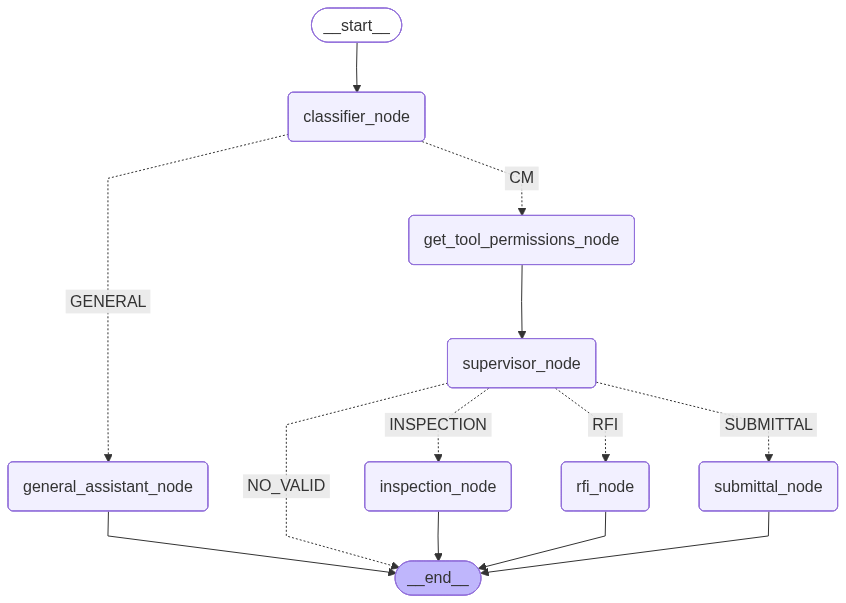
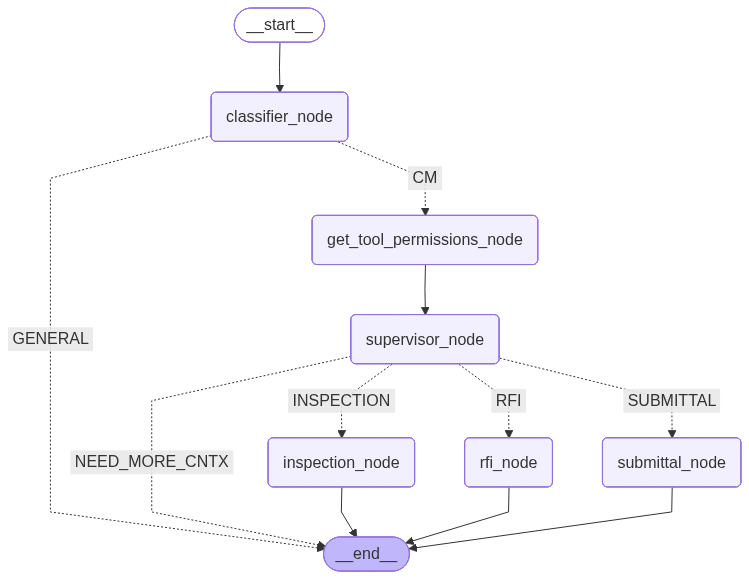
Update environment variables in .env.example; enhance README.md with detailed architecture and flow; refactor main.py to use chatcm_agent instead of ChatCM.

diff --git a/app/main.py b/app/main.py
@@ -16,7 +16,7 @@ from langchain_core.messages import HumanMessage
 
 from agents import *
 from model.user import UserContext
-from workflows.chat_cm import ChatCM
+from workflows.chat_cm import chatcm_agent
 
 POSTGRES_URI = os.getenv("POSTGRES_URI")
 QDRANT_URL = os.getenv("QDRANT_URL")
@@ -45,35 +45,11 @@ app.add_middleware(
     allow_headers=["*"],
 )
 
-def init_agent():
-    graph = ChatCM()
-    graph.question_classifier = QuestionClassifier(
-        # model= ChatOllama(model="qwen3:0.6b", temperature=0.1),
-        model=ChatNVIDIA(model="qwen/qwen2.5-7b-instruct", temperature=0, api_key=NVIDIA_LLM_API_KEY),
-       )
-    graph.general_assistant_team = GeneralAssistant(
-    #    model= ChatOllama(model="qwen3:0.6b", temperature=0.1),
-       model=ChatNVIDIA(model="qwen/qwen2.5-7b-instruct", temperature=0.2, api_key=NVIDIA_LLM_API_KEY),
-       )
-    graph.supervisor_team = CMSupervisor(
-        # model= ChatOllama(model="qwen3:0.6b", temperature=0.1),
-        model=ChatNVIDIA(model="qwen/qwen2.5-7b-instruct", temperature=0, api_key=NVIDIA_LLM_API_KEY),
-    )
-    graph.rfi_team = RFIAgent(
-        # model= ChatOllama(model="qwen3:0.6b", temperature=0.1),
-        model=ChatNVIDIA(model="qwen/qwen2.5-7b-instruct", temperature=0, api_key=NVIDIA_LLM_API_KEY),
-        yaml_path="docs/cm_db_knowledge.yaml",
-        db_uri=POSTGRES_URI
-    )
-    # Building the agent
-    memory = MemorySaver()
-    return graph.build(checkpointer=memory)
-
 def make_thread_id(s: ChatSession) -> str:
     # Deterministic per user/company/project unless overridden
     return s.thread_id if s.thread_id else str(uuid.uuid4())
 
-agent = init_agent()
+agent = chatcm_agent()
 
 @app.get("/healthz")
 def healthz():

diff --git a/README.md b/README.md
@@ -1,9 +1,49 @@
-# retriever-agent
+# ChatCM (Agentic Construction Management Assistant)
 
-- ต้องทำอะไรสักอย่างที่ เพื่อ context ตอน retrieval docs
-- research เกี่ยวกับวิธีลดหลอน
+ChatCM is an agentic workflow that classifies user queries, checks tool permissions, retrieves structured schema knowledge, generates safe read‑only SQL, executes it, and returns concise, user‑friendly answers for Construction Management (CM) features (RFI, Submittal, Inspection).
 
+## Architecture
 
-Supervisor -> 
-Analysze Question (greeting? or needed tools (e.g., search external, plot graph calculation, ))->
-routor -> 
+High‑level LangGraph workflow (auto‑generated):
+
+![ChatCM Agent Graph](assets/chatcm_agentic_graph.png)
+
+Flow:
+1. `classifier_node` → Classify query as CM / GENERAL / NEED_MORE_CNTX via [`QuestionClassifier`](agents/question_classifier.py).
+2. If CM → `get_tool_permissions_node` loads user tool permissions.
+3. `supervisor_node` ([`CMSupervisor`](agents/cm_supervisor.py)) routes to RFI / SUBMITTAL / INSPECTION or returns fallback (NON_CM_TOOL / NEED_MORE_CNTX / NO_VALID).
+4. Tool node (`rfi_node`, `submittal_node`, `inspection_node`) runs a 3‑step internal SQL subgraph (generate SQL → execute → answer) implemented in [`BaseToolAgent`](agents/cm_tool_agent.py) / specialized agents (`RFIAgent`, `SubmittalAgent`, `InspectionAgent`).
+5. Answer returned; GENERAL or ambiguous queries end early.
+
+## Core Components
+
+| Responsibility | Implementation |
+| -------------- | -------------- |
+| Orchestration graph | [`ChatCM`](workflows/chat_cm.py) + [`chatcm_agent`](workflows/chat_cm.py) |
+| Query type classification | [`QuestionClassifier`](agents/question_classifier.py) |
+| CM tool routing & permission gate | [`CMSupervisor`](agents/cm_supervisor.py) |
+| SQL generation + execution + NL answer | [`BaseToolAgent`](agents/cm_tool_agent.py) & registered agents (`RFIAgent`, `SubmittalAgent`, `InspectionAgent`) |
+| Vector retrieval (schema / docs) | [`QdrantVector`](utils/qdrant_helper.py) |
+| Prompts (SQL templates) | [`prompts.py`](prompt_templates/prompts.py) |
+| HTTP API | [`app/main.py`](app/main.py) |
+| Streamlit demo UI | [`streamlit_app.py`](streamlit_app.py) |
+| Constants / env | [`constants.py`](constants/constants.py) |
+
+## Safety & Guardrails
+
+- Only single read‑only `SELECT` statements accepted (validated in [`execute_query`](agents/cm_tool_agent.py)).
+- LIMIT auto‑inserted / adjusted (`_check_limit`).
+- Non‑SELECT or unsafe SQL rejected early.
+- Answer prompt forbids leaking raw SQL, enforces factual grounding in result set.
+
+## Vector Store (Schema Awareness)
+
+Schema / table descriptions are embedded and stored in Qdrant (see [`QdrantVector`](utils/qdrant_helper.py)). Agents can extend retrieval to refine `table_info` beyond default tables.
+
+## Environment
+
+Copy sample:
+```sh
+cp .env.example .env
+```
+Key variables (see [.env.example](.env.example)):
